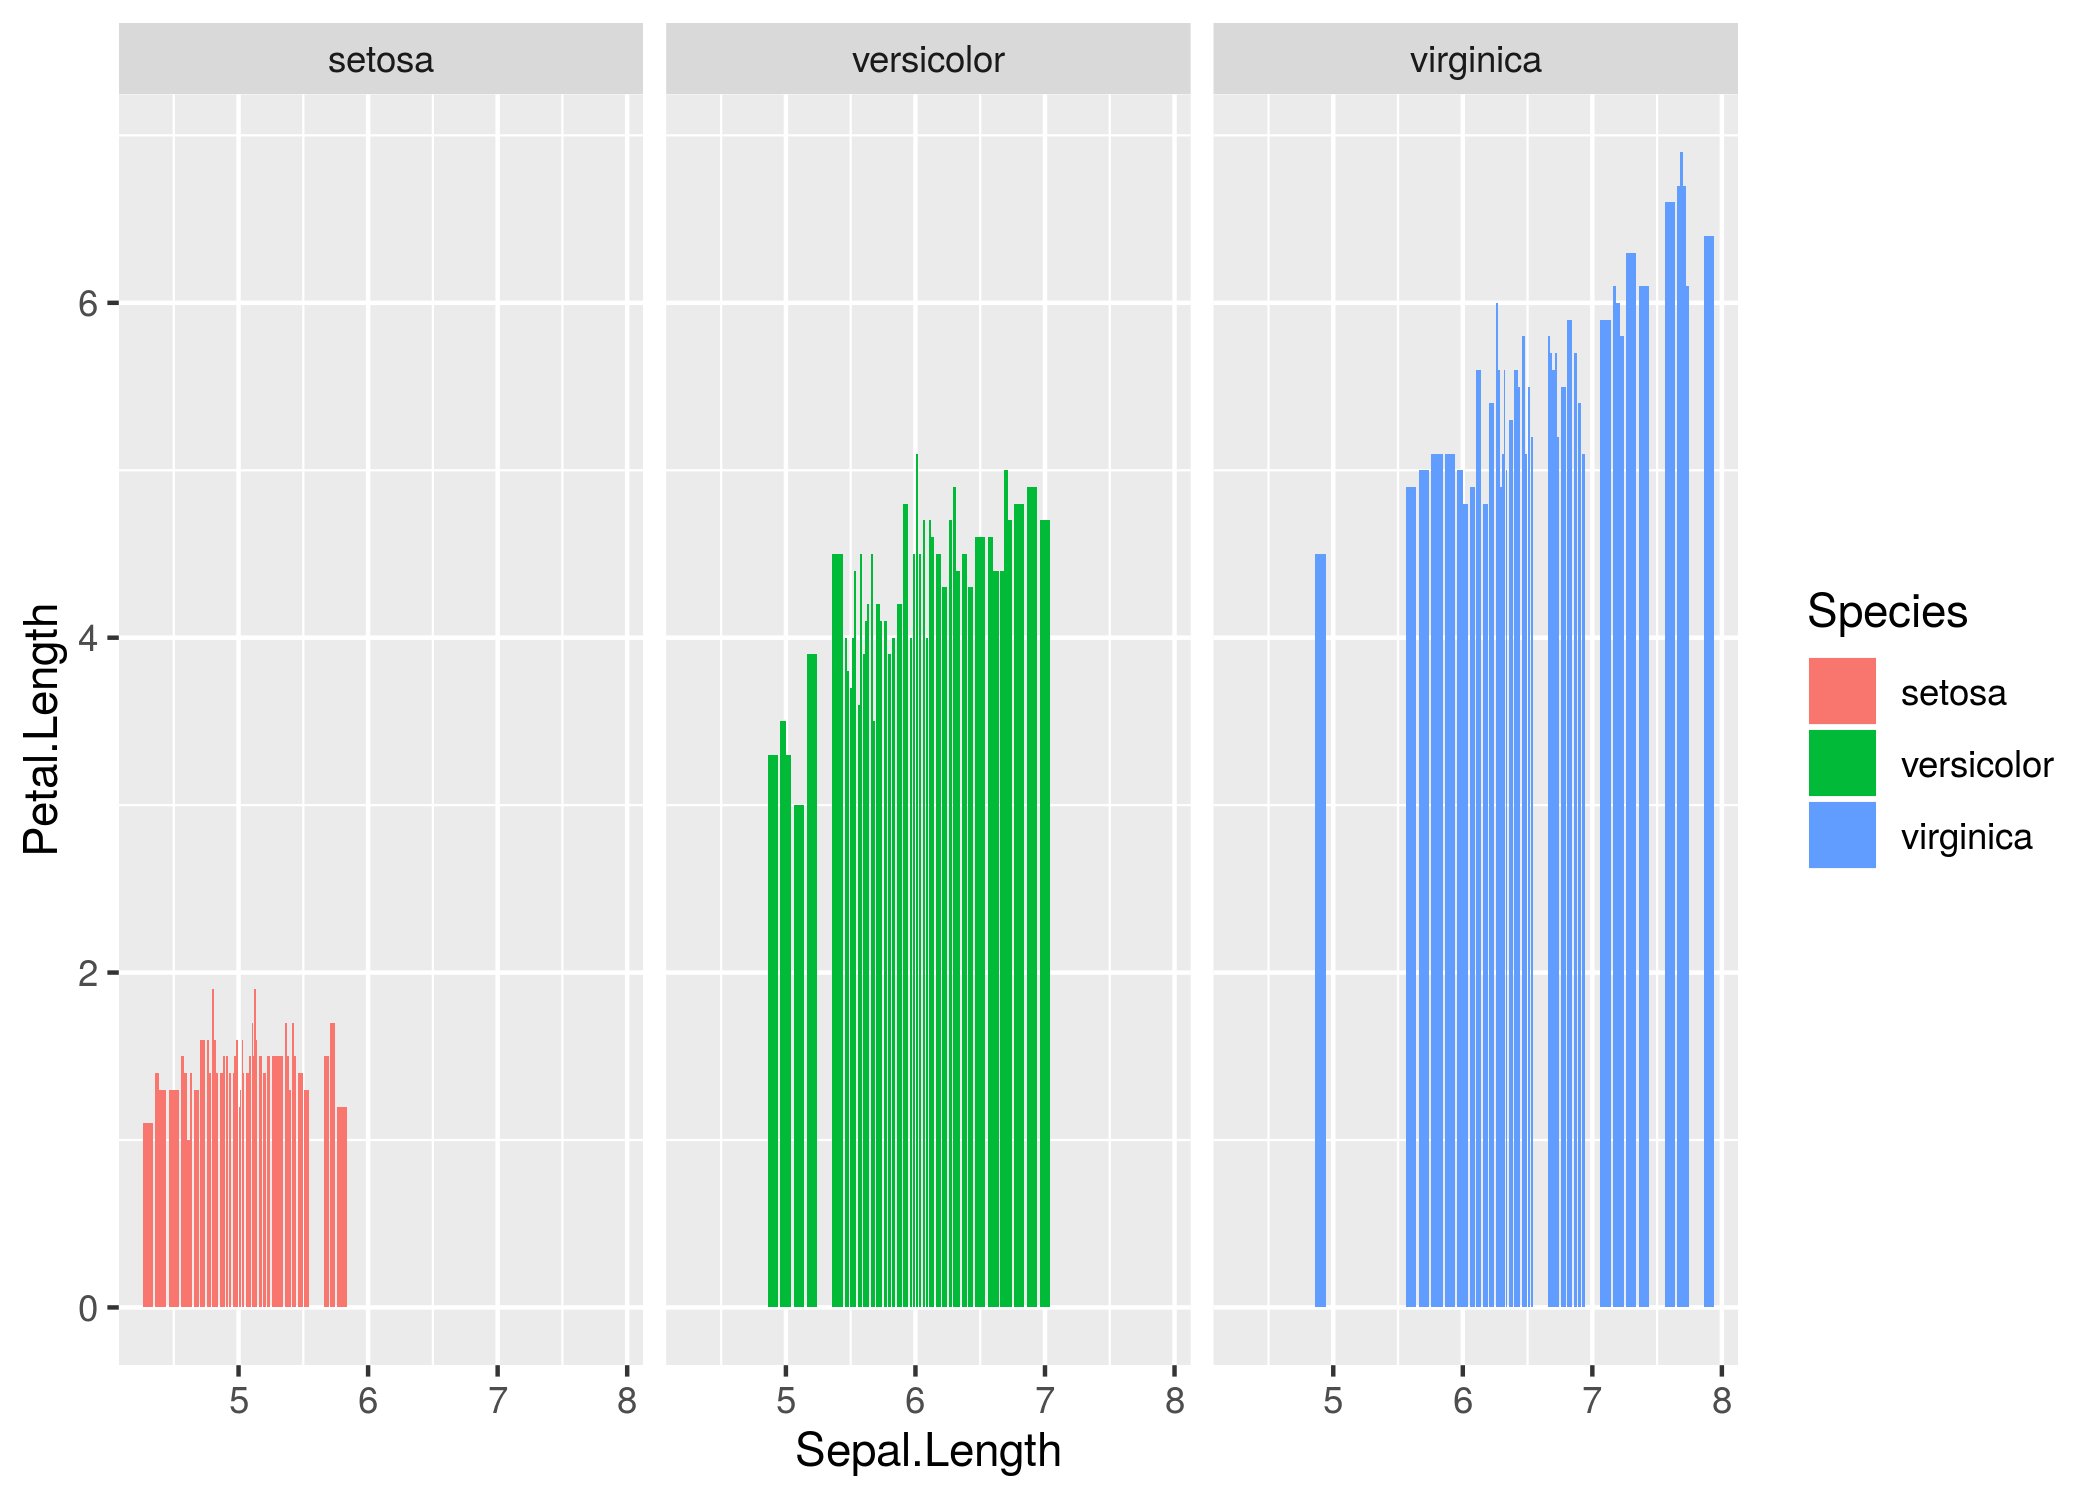
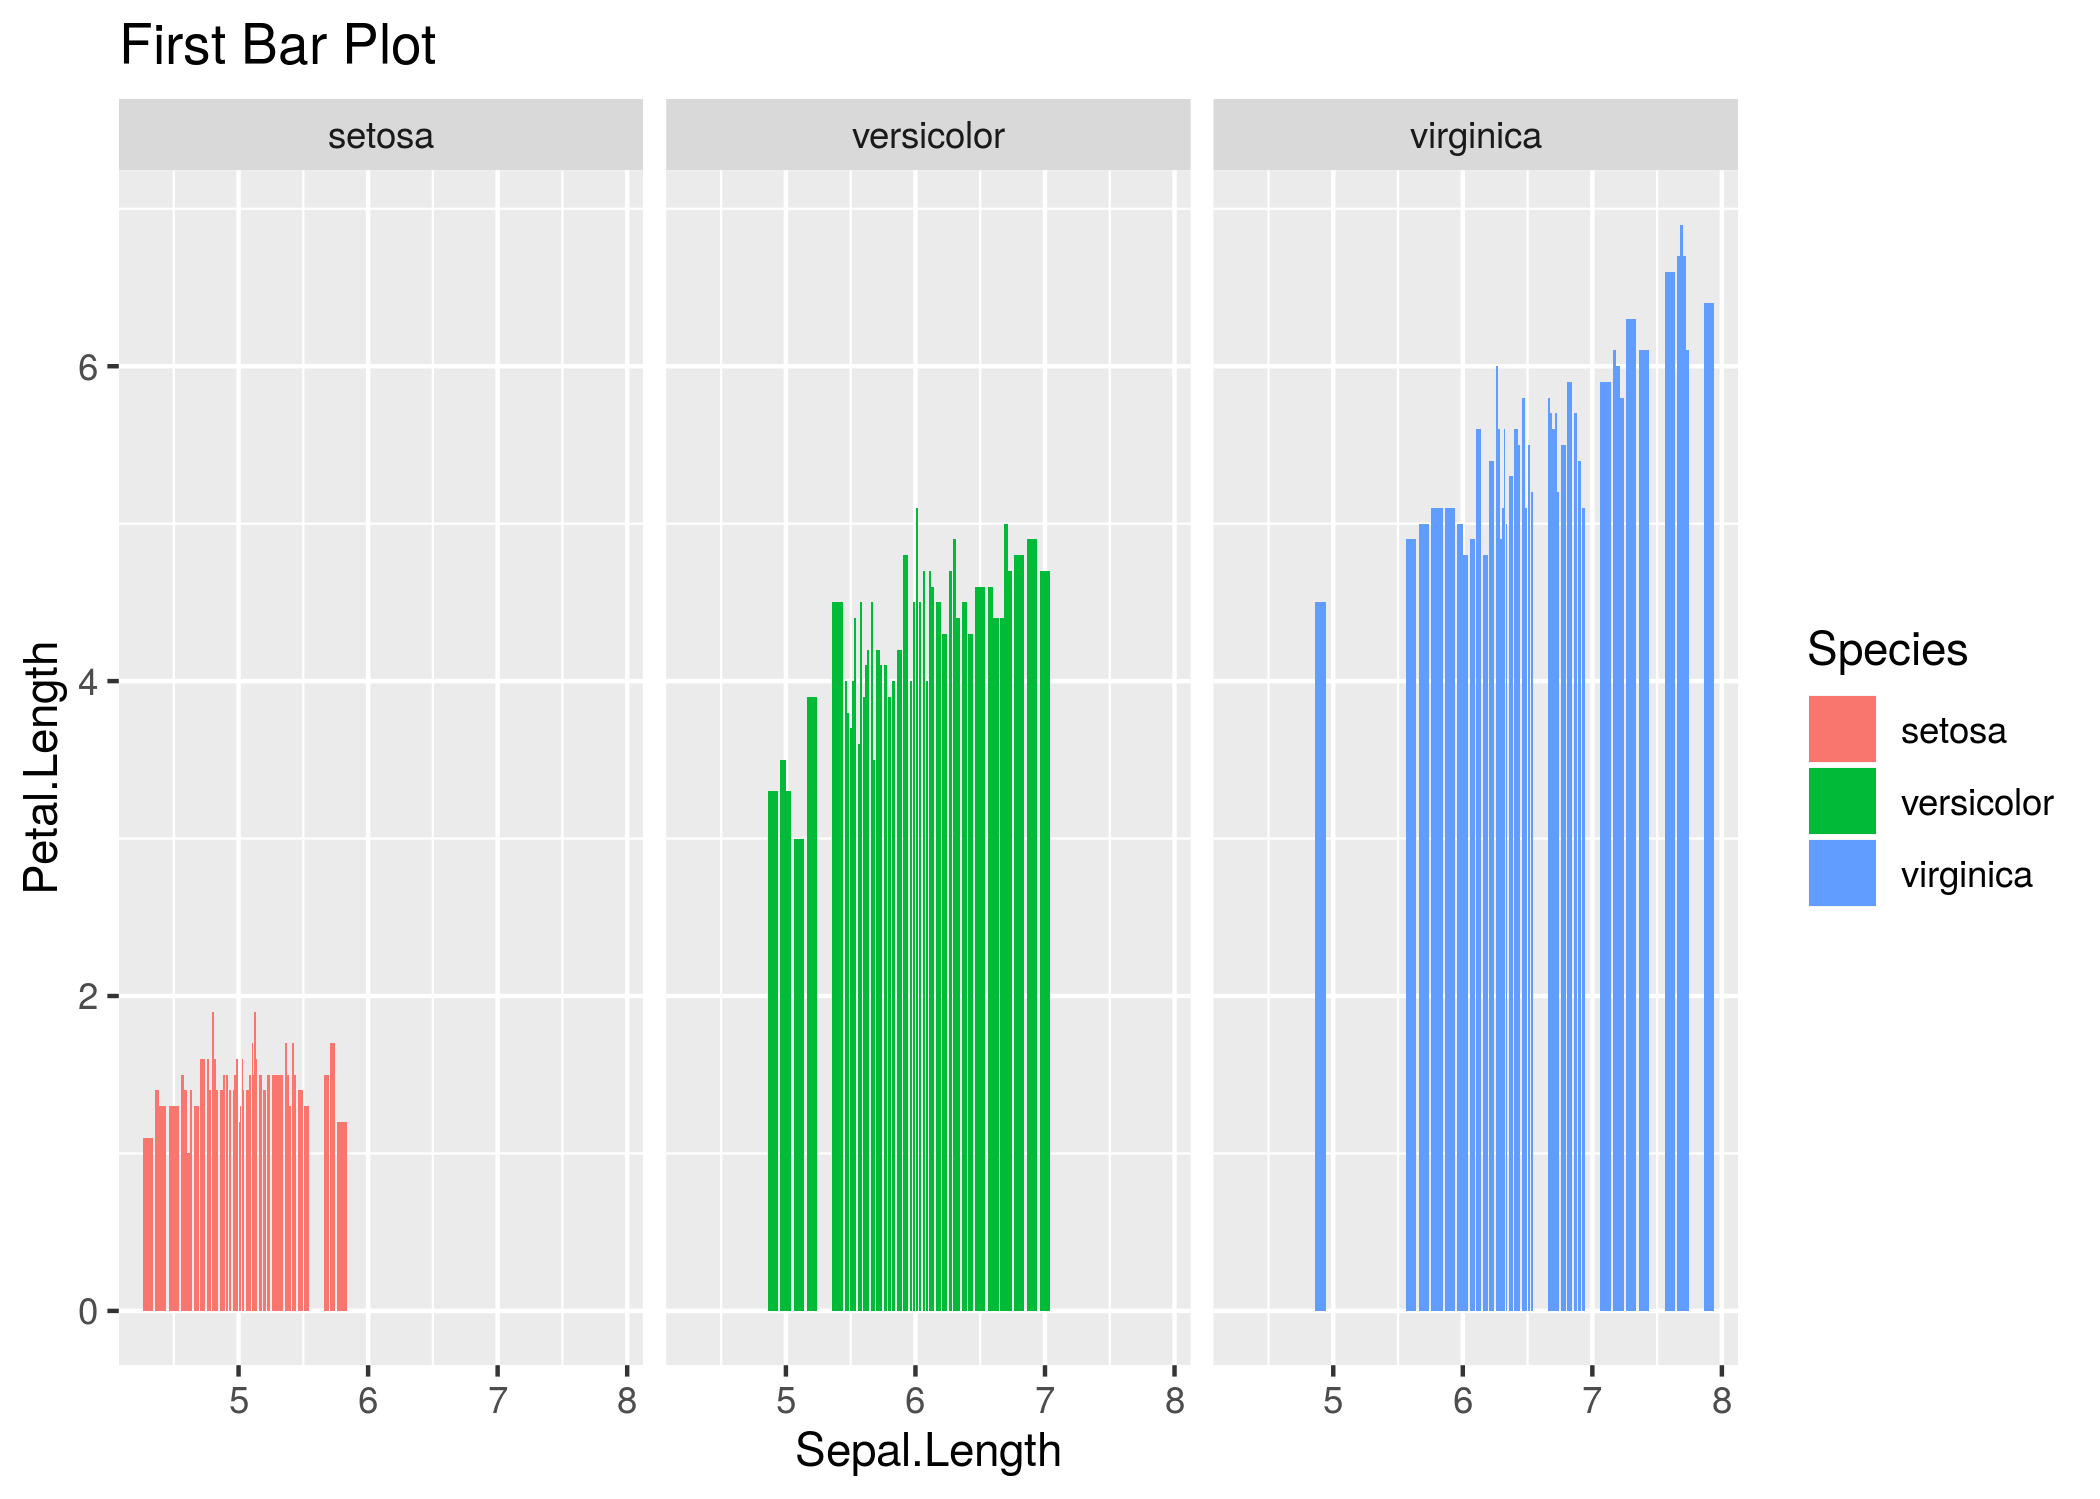
title of the plot was added

diff --git a/practice_plot_github.html b/practice_plot_github.html
@@ -374,7 +374,8 @@ summary {
 <pre class="r"><code>iris %&gt;%
   ggplot(aes(x=Sepal.Length, y=Petal.Length, fill=Species))+
   geom_bar(stat=&quot;identity&quot;, position = &quot;dodge2&quot;) +
-  facet_wrap(~Species) -&gt; practice_plot
+  facet_wrap(~Species)+
+  labs(title=&quot;First Bar Plot&quot;)-&gt; practice_plot
 
   
 ggsave(&quot;practice_plot_github.png&quot;, practice_plot)</code></pre>
